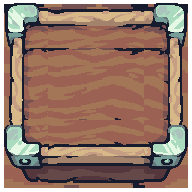
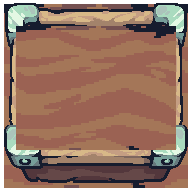
Limpar manchas escuras e contorno dos espaços do inventário

diff --git a/styles/game.css b/styles/game.css
@@ -200,7 +200,7 @@ main { grid-template: minmax(0, 1fr) / minmax(0, 1fr); }
   background:url('../assets/tiny-swords/UI Elements/UI Elements/Wood Table/WoodTable_Slots.png') center/100% 100% no-repeat;
   border-radius:0;cursor:pointer;touch-action:manipulation;
 }
-.inventory-slots button.selected { border-color:#eed59a; }
+.inventory-slots button.selected { filter:brightness(1.2); }
 .inventory-slots button:focus-visible { outline:3px solid #fff3bb;outline-offset:2px; }
 .inventory-slots img { width:100%;height:100%;object-fit:contain;pointer-events:none; }
 .inventory-slots img[hidden] { display:none; }
